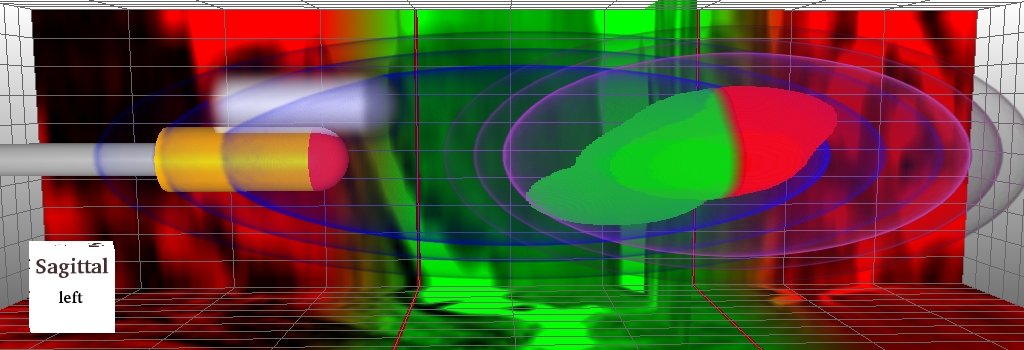
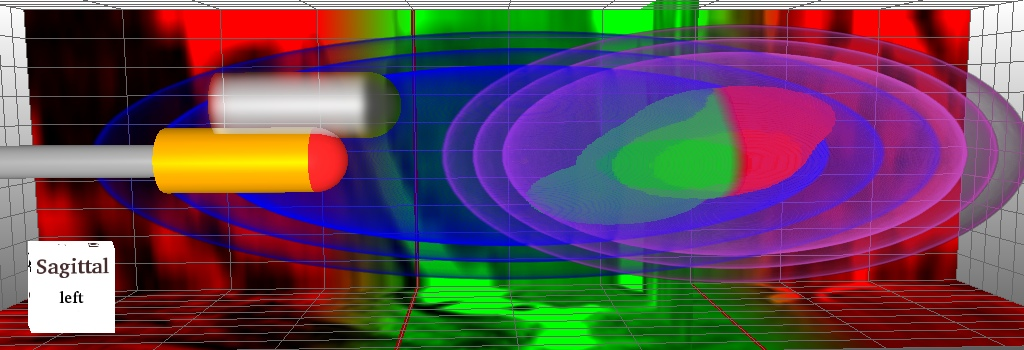
bartz13-dbs: increased opacity for Figure 4

diff --git a/bartz13-dbs.tex b/bartz13-dbs.tex
@@ -119,7 +119,7 @@ A DBS intervention can be divided into three subsequent phases: \emph{planning},
 \begin{figure}[t]
   \centering
   \fbox{\includegraphics[width=0.98\columnwidth]{figures/electrode_closeup.jpg}}
-  \caption{The target closeup visualization shows the potential target regions (speech tests=blue, movement tests=purple). The spatial context provided by the MRI signal is color coded using the red-green MER region mapping. The stimulation electrode changes its color when it is entering the intersection of the potential target area. This view gives qualitative access to all uncertainty data fused with structural data in one glance. \fix{Redo image with lower transparency for patient checks.}}
+  \caption{The target closeup visualization shows the potential target regions (speech tests=blue, movement tests=purple). The spatial context provided by the MRI signal is color coded using the red-green MER region mapping. The stimulation electrode changes its color when it is entering the intersection of the potential target area. This view gives qualitative access to all uncertainty data fused with structural data in one glance.}
   \label{fig:targetregion}
 \end{figure}
 
@@ -291,7 +291,7 @@ We have presented a visualization system that has been designed to support neuro
 %In this paper we have presented a visualization system that has been designed to support neurosurgeons during DBS interventions by fusing measurement data, along with their uncertainties, with structural modalities to facilitate mental registration. This multimodal information is presented to the surgeon during the intervention both in the context of the rendered imaging data, as well as a separate view showing the combination of these measurements. As the MER and patient checks are performed during DBS interventions to improve the localization of the stimulation electrode, we feed back the results of these checks into our system. When displaying and intersecting the potential target regions we take into account the different degrees of uncertainty that result from their acquisition process. This uncertainty-aware information fusion in image space, as well as in a profile plot, enables the surgeon to better assess the electrode placement and detect the optimal electrode placement. To estimate the clinical impact of the presented system we performed a qualitative evaluation with five neurosurgeons who regularly perform DBS interventions. The results indicate that the presented visualization approaches are of great interest and have the potential to improve DBS interventions.
 
 %In the future we would like to further improve the presented system based on the feedback we have received from the surgeons during our evaluation. We would especially like to reduce the learning curve currently necessary. Furthermore, it would be beneficial to evaluate its effectiveness in the operation theater. However, a full evaluation requires a lot of effort as it would require the system to be certified for usage in the operation theater. While the current system considers most modalities, the integration of DTI could also be considered in the future. Another source of information we would like to include is the region of the brain that is affected by the stimulation signal, the \emph{volume of tissue activated}. This would simulate the region in the brain that would be influenced by the current electrode position and could thereby function as a prediction as well as a verification tool. While we have currently focused on the recording and placement phases of the DBS intervention, we would also like to extend the system for long term horizontal studies of electrode placements. A major part of this horizontal study would be the ability to compare the measured accuracy with the outcome of the intervention. As no extensive statistics about the long term effects of varying placement positions and the applied electric fields exist, this could be valuable information for further improving DBS interventions in the future.
-
+\nocite{Cicerone2}
 \bibliographystyle{eg-alpha-doi}
 \bibliography{literature}
 
